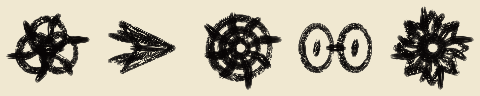
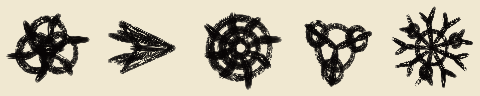
Shape splitter buds and boss seed limbs from enemy concept

Changed region(s): [[0.8125, 0.0625, 1.0, 0.9375], [0.5938, 0.1875, 0.7812, 0.9062]]

diff --git a/UnitySandbox/Assets/BokumyakuPrototype/Presentation/ProceduralInkMotifs.cs b/UnitySandbox/Assets/BokumyakuPrototype/Presentation/ProceduralInkMotifs.cs
@@ -39,31 +39,38 @@ namespace Bokumyaku.Presentation
                     radius = 5;
                     break;
                 case EnemyKind.Splitter:
-                    // Twin cores are separated by a waist, not a generic single disc.
-                    strokes.Add(Arc(29, 48, 15, 22, 0, 360, 24));
-                    strokes.Add(Arc(67, 48, 15, 22, 0, 360, 24));
-                    strokes.Add(Line(40, 48, 56, 48, 8));
-                    strokes.Add(Line(28, 41, 30, 55, 8));
-                    strokes.Add(Line(66, 41, 68, 55, 8));
-                    radius = 4;
+                    // A parent body carries three budding lobes instead of two disconnected rings.
+                    strokes.Add(Arc(48,48,18,22,0,360,28));
+                    for(int i=0;i<3;i++)
+                    {
+                        float a=i*Mathf.PI*2/3+.4f;
+                        var bud=new Vector2(48+Mathf.Cos(a)*23,48+Mathf.Sin(a)*23);
+                        strokes.Add(Line(48,48,bud.x,bud.y,12));
+                        strokes.Add(Arc(bud.x,bud.y,9,11,0,360,16));
+                        strokes.Add(Line(bud.x,bud.y,bud.x+Mathf.Cos(a)*14,bud.y+Mathf.Sin(a)*14,12));
+                    }
+                    radius=4;
                     break;
                 case EnemyKind.Boss:
-                    var crown = new InkPoint[17];
-                    for (int i = 0; i < crown.Length; i++)
+                    // Forked, asymmetrical limbs make the boss a living ink tree.
+                    strokes.Add(Arc(48,48,15,17,0,360,28));
+                    for(int i=0;i<9;i++)
                     {
-                        float angle = i * Mathf.PI / 8;
-                        float r = i % 2 == 0 ? 35 : 22;
-                        crown[i] = Point(48 + Mathf.Cos(angle) * r, 48 + Mathf.Sin(angle) * r, i, crown.Length);
+                        float a=i*Mathf.PI*2/9+.12f;
+                        var mid=new Vector2(48+Mathf.Cos(a+.18f)*25,48+Mathf.Sin(a+.18f)*25);
+                        var tip=new Vector2(48+Mathf.Cos(a)*40,48+Mathf.Sin(a)*40);
+                        strokes.Add(Polyline(new[]{new Vector2(48,48),mid,tip},24));
+                        var fork=mid+new Vector2(Mathf.Cos(a+.8f),Mathf.Sin(a+.8f))*13;
+                        strokes.Add(Line(mid.x,mid.y,fork.x,fork.y,12));
+                        if(i%3==0)strokes.Add(Arc(mid.x,mid.y,5,6,0,360,14));
                     }
-                    strokes.Add(crown);
-                    strokes.Add(Arc(48, 48, 12, 12, 0, 360, 16));
-                    radius = 4.5f;
+                    radius=3;
                     break;
                 default:
                     throw new ArgumentOutOfRangeException(nameof(kind));
             }
             // Opaque ink bodies with broken radial strokes read as creatures, not UI rings.
-            if(kind==EnemyKind.Normal||kind==EnemyKind.Heavy||kind==EnemyKind.Boss)
+            if(kind==EnemyKind.Normal||kind==EnemyKind.Heavy)
             {
                 int count=kind==EnemyKind.Boss?12:kind==EnemyKind.Heavy?8:6;
                 for(int i=0;i<count;i++)
@@ -179,4 +186,5 @@ namespace Bokumyaku.Presentation
         }
     }
 }
+
 

diff --git a/docs/STATE.md b/docs/STATE.md
@@ -8,6 +8,7 @@
 - Runtime/シミュレーション/経済/保存は未変更。研究価格500案はstashに保護。長期曲線凍結・分割計画のみ。
 
 ## 直近の結果
+- 最新の敵案を反映: 分裂種を3子核の輪郭、ボスを9本の分岐触手へ変更。Unity生成/透過5種確認、一覧画像更新。検証区分: 輪郭生成のみ、戦場の追加確認は未実施。
 - 独立QAのOSフォント依存を修正。同梱Noto Serif静的TMPで28ラベル/表示文字を確認、実行60fps要求・終了時復元を確認。検証区分: 限定QA。実機未検証。
 - 移行漏れの核修復をuGUIへ追加。HP欄に費用/満タン/上限表示。隔離試験で購入・満タン/不足/上限拒否4/4、repair-hud-check.json/png。検証区分: UI限定。
 - 発射/着弾に短い金の光を追加。6武器の短時間Playを完了、貫筆/円相画像を目視。演出軽減で既存閃光6個の非表示を確認（reduced-flash-check.json）。検証区分: 描画限定。
@@ -22,6 +23,7 @@
 1. 新HUDに不足する滲み/採墨の戦闘内購入導線を追加する。参考WAVE37の美術には未達。戦場の構図・背景のコントラスト、攻撃演出の迫力、密集時の判読性を改善。
 2. 実機タップ/ノッチ、同梱フォント実機表示/CopyTexture対応、初回シェーダー待機を確認。撃破跡は周回内表示のみ。
 3. 音の聴感と初週バランスは描画の後。商品完成条件はPRODUCT_COMPLETION.md。
+
 
 
 

diff --git a/docs/RENDER_REFRESH.md b/docs/RENDER_REFRESH.md
@@ -49,3 +49,6 @@ ResetInk時に一度だけ7本の先細りの根をSUMI描画。攻撃枝/判定
 
 ### 独立QAとフォント修正
 独立read-only QAがOSフォント不在端末の起動例外と滲み/採墨導線不足を検出。前者を同梱Noto Serif CJK JP静的TMPへ修正。28ラベルの同梱資産参照/全表示文字収録を確認。OSフォント検索なし。実機起動は未検証。後者は次工程。実行時targetFrameRate60を設定し、Play終了時の元値-1復元を確認。60fps達成の保証ではない。
+
+### ユーザー敵案の反映
+分裂種の双輪を3子核の輪郭へ、ボスの星形を9本の分岐触手へ変更。提供画像は形状参考のみで切抜き/素材同梱なし。画像内の行動案は新ルールとして採用せず既存シミュレーション維持。EnemySilhouetteCheckで5種生成/透明領域を確認、一覧画像更新。赤い副核と実戦の判読性は残件。
